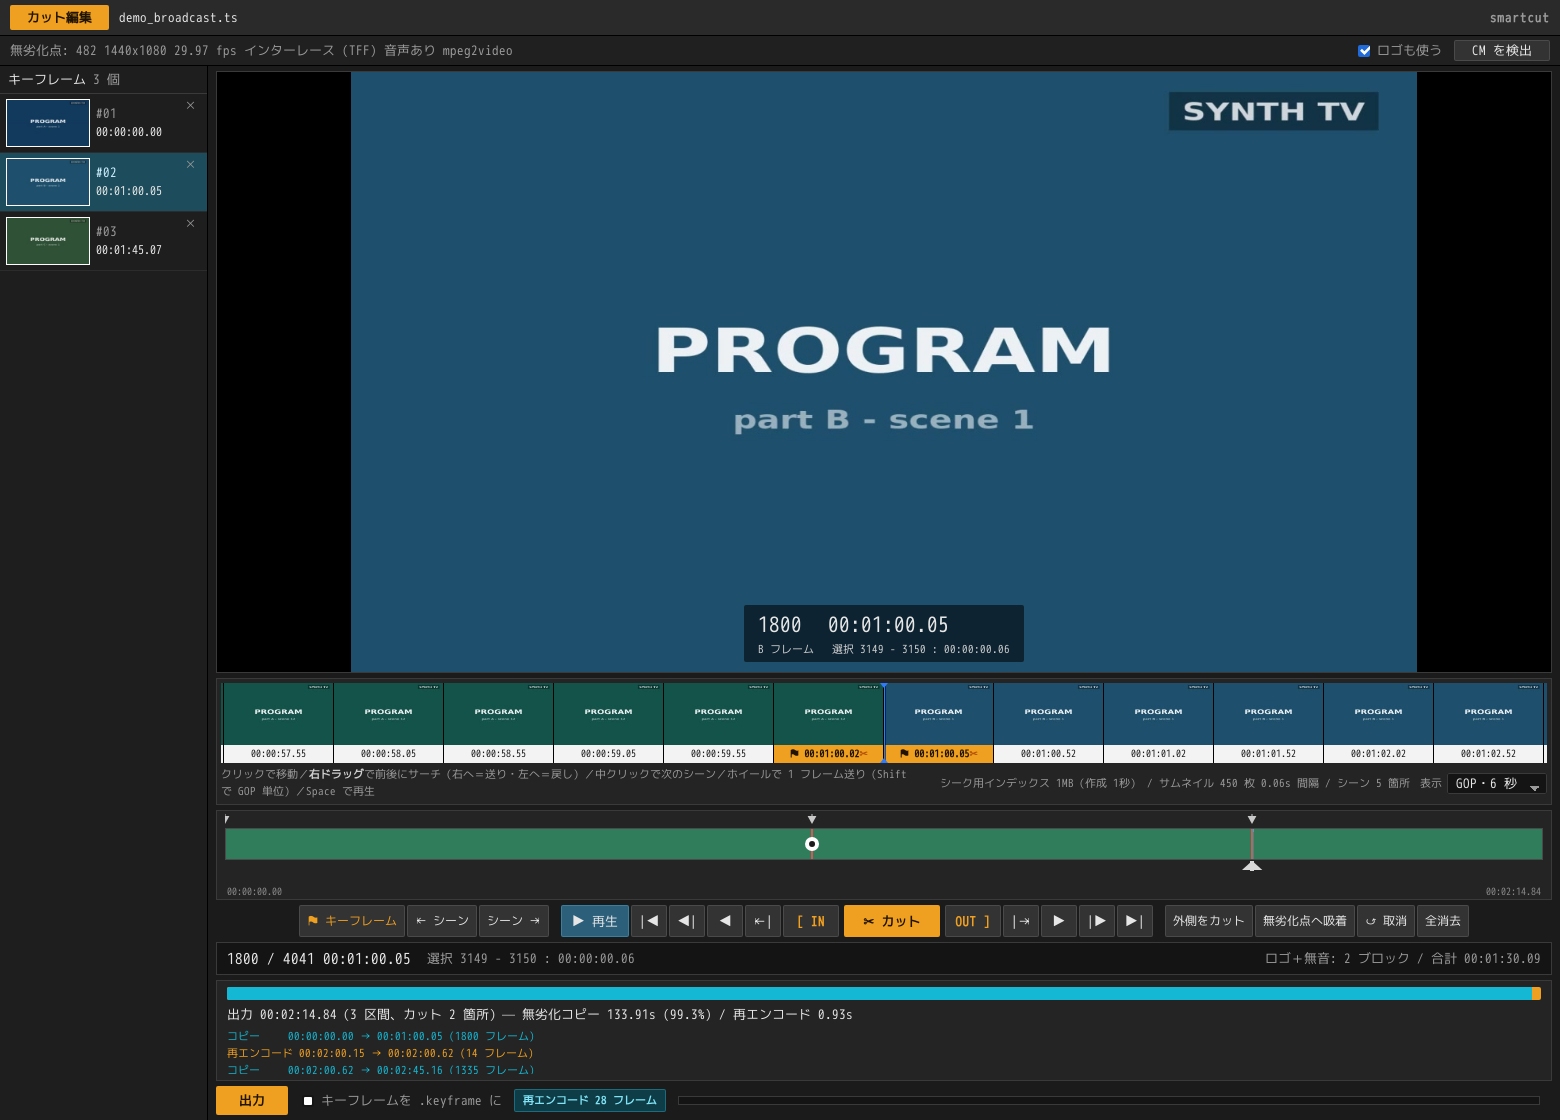
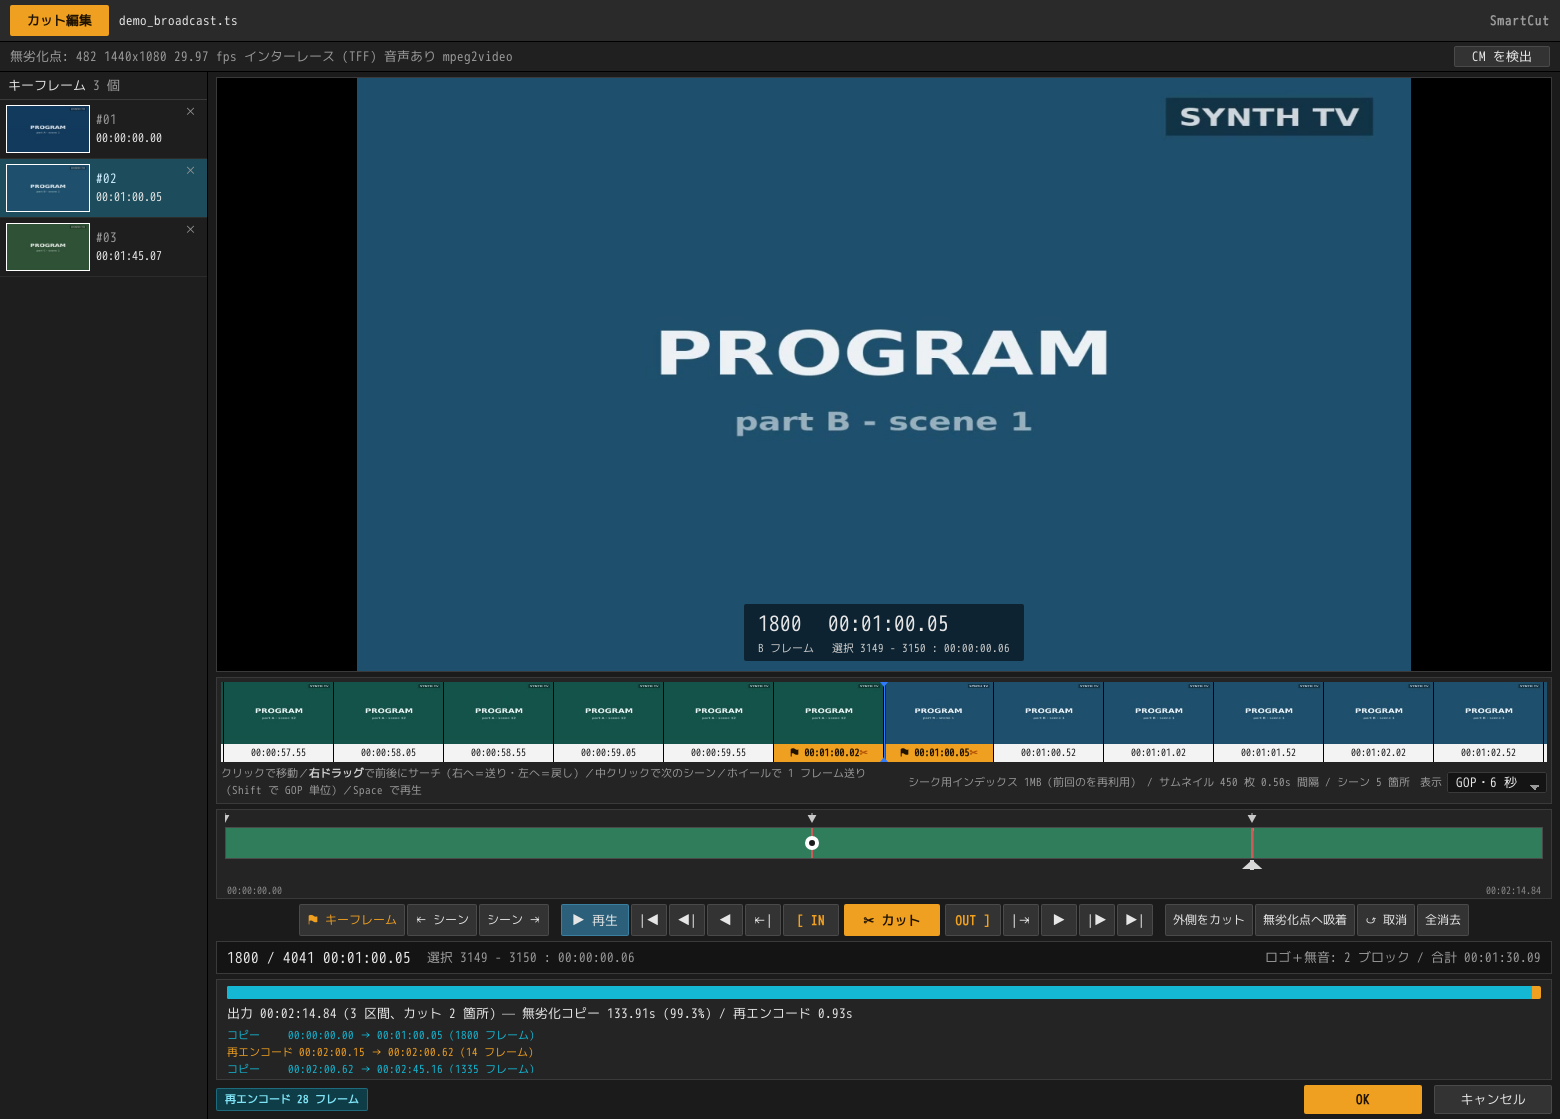
Retake the screenshots on the 0.2.0 windows, and follow the names 0.2.0 changed
Both images were of the single window that 0.2.0 broke in two: the editor shot
carried a tab bar, an 出力 button and a "キーフレームを .keyframe に" tick that
the cut editor no longer has, and the GIF was that same window being cut in.
They are retaken on the editor window as it is now -- the same recording, the
same edit, and the same numbers the README quotes around them: the demo clip
from tests/make_demo_media.sh, both commercial blocks taken out, 3 ranges,
133.91 s copied against 0.93 s re-encoded, 28 frames of 6743. The GIF starts
after the detection instead of waiting through it, which is what its caption
always said it showed.

`list.png` is new, and so is the section it sits in. The list is the half of
0.2.0 that no picture said anything about: four clips, the first of them
carrying its detection, its cuts and the length it will be written at.

The keyframe sidecar moved to the output settings screen when the editor lost
its export button, so the GUI page says where it is now and that it is a
setting of the whole list rather than of one clip.

The names 0.2.0 changed are followed through the build documentation.
`mainBinaryName` makes the GUI `smartcut` on Linux too, so `cargo build` writes
`target/release/smartcut` and the AppDir carries `usr/bin/smartcut`; the bundles
Tauri names after `productName` are `SmartCut_0.2.0_*`. Sizes are from this
build: 208.1 MB of tar.gz, 2.6 MB of deb, 66.0 MB of portable zip, 168.9 MB
[…]

diff --git a/docs/distribution.md b/docs/distribution.md
@@ -7,7 +7,7 @@
 ```bash
 cargo install tauri-cli --version ^2 --locked   # once
 cd gui/src-tauri && NO_STRIP=1 cargo tauri build --bundles appimage
-# -> target/release/bundle/appimage/smartcut_0.1.2_amd64.AppImage
+# -> target/release/bundle/appimage/SmartCut_0.2.0_amd64.AppImage
 ```
 
 **`NO_STRIP=1` is set.** Without it, linuxdeploy used to die with
@@ -45,8 +45,8 @@ in tends to make things *more* fragile across environments, so the exclusion
 stays. What is bundled can be checked by extracting:
 
 ```bash
-./smartcut_0.1.2_amd64.AppImage --appimage-extract >/dev/null
-ldd squashfs-root/usr/bin/gui | grep -E 'asound|jack|pulse'
+./SmartCut_0.2.0_amd64.AppImage --appimage-extract >/dev/null
+ldd squashfs-root/usr/bin/smartcut | grep -E 'asound|jack|pulse'
 # libasound.so.2 / libjack.so.0 -> /lib/x86_64-linux-gnu/...   (system)
 # libpulse.so.0                 -> squashfs-root/usr/bin/../lib/...  (bundled)
 ```
@@ -67,8 +67,8 @@ no ALSA-related errors and no panics.
 
 ```bash
 ./gui/build-linux.sh
-# -> gui/src-tauri/target/release/bundle/linux/smartcut-0.1.2-linux-x86_64.tar.gz
-# -> gui/src-tauri/target/release/bundle/linux/smartcut_0.1.2_amd64.deb
+# -> gui/src-tauri/target/release/bundle/linux/SmartCut-0.2.0-linux-x86_64.tar.gz
+# -> gui/src-tauri/target/release/bundle/linux/smartcut_0.2.0_amd64.deb
 ```
 
 Two ways of packing the same build. Both install **the GUI as `smartcut` and the
@@ -83,8 +83,8 @@ both out of `tauri.conf.json`.
 
 | Artifact | Size | FFmpeg | Requires |
 |---|---|---|---|
-| `smartcut-0.1.2-linux-x86_64.tar.gz` | 207.9 MB | Bundled | glibc 2.39 or newer. No FUSE needed |
-| `smartcut_0.1.2_amd64.deb` | 2.5 MB | Uses the system's | FFmpeg 7.1 (Debian 13 / Ubuntu 25.04 and later) |
+| `SmartCut-0.2.0-linux-x86_64.tar.gz` | 208.1 MB | Bundled | glibc 2.39 or newer. No FUSE needed |
+| `smartcut_0.2.0_amd64.deb` | 2.6 MB | Uses the system's | FFmpeg 7.1 (Debian 13 / Ubuntu 25.04 and later) |
 
 **The tar.gz contains the same AppDir as the AppImage, extracted.** The 745
 libraries linuxdeploy gathered by following `ldd` sit in `app/` as they are,
@@ -136,14 +136,14 @@ Cross-built from the Linux development VM to `x86_64-pc-windows-msvc`.
 
 ```bash
 ./gui/build-windows.sh
-# -> gui/src-tauri/target/x86_64-pc-windows-msvc/release/bundle/nsis/smartcut_0.1.2_x64-setup.exe
+# -> gui/src-tauri/target/x86_64-pc-windows-msvc/release/bundle/nsis/SmartCut_0.2.0_x64-setup.exe
 # -> gui/src-tauri/target/x86_64-pc-windows-msvc/release/bundle/portable/smartcut-portable-x64.zip
 ```
 
 | Artifact | Size | Contents |
 |---|---|---|
-| NSIS installer | 52.8 MB | 167 MB installed (9.6 MB exe plus 8 FFmpeg DLLs) |
-| Portable zip | 65.9 MB | The same set. Unzip and run `smartcut.exe` |
+| NSIS installer | 52.8 MB | 168.9 MB installed (10.6 MB exe plus 8 FFmpeg DLLs) |
+| Portable zip | 66.0 MB | The same set. Unzip and run `smartcut.exe` |
 
 **Exactly one piece of code had to be rewritten for the port: audio output.**
 Everything goes through libav, so there is no `Command::new` and no POSIX path.

diff --git a/docs/gui.md b/docs/gui.md
@@ -16,7 +16,7 @@ its own**.
 |---|---|---|
 | **入力設定 (Input)** | List window | The list of clips. Drop files on it or use ファイルを追加; each one is read in turn and its seek index left on disc |
 | **カット編集 (Cut editor)** | **Its own window** | Open one clip out of the list, cut it, and come back with **OK**. Nearly all of this document is about this one |
-| **出力設定 (Output settings)** | List window | Folder, filename prefix, container, what to do with the audio. **One answer for the whole list** |
+| **出力設定 (Output settings)** | List window | Folder, filename prefix, container, what to do with the audio, whether to write a `.keyframe` sidecar. **One answer for the whole list** |
 | **出力 (Output)** | List window | Write the list out, top to bottom |
 
 The list window's three are tabs, and only one is up at a time — they are
@@ -352,10 +352,12 @@ something earlier and shift the numbering, and the same mark stays selected. Onl
 when several go up at once, as with commercial detection, is the selection left
 alone, since there is no reason to prefer any one of them.
 
-**Keyframes can be written out alongside the output.** Tick "keyframes to
-.keyframe" next to the export button and a `.keyframe` file appears beside the
-video with the same name. The contents are **line numbers only, CRLF, no
-header** — the shape the tools that read this kind of file expect. **The numbers
+**Keyframes can be written out alongside the output.** Tick
+「キーフレーム情報を別ファイル (.keyframe) で出力する」 on the output settings
+screen and a `.keyframe` file appears beside the video with the same name. It is
+a setting of the output, so it holds for every clip in the list. The contents
+are **line numbers only, CRLF, no header** — the shape the tools that read this
+kind of file expect. **The numbers
 are in the exported timeline, not the original recording:**
 
 ```

diff --git a/README.ja.md b/README.ja.md
@@ -119,6 +119,16 @@ smartcut input.ts --analyze --scenes            # シーンの変わり目を出
 | `--no-open-gop` | オープン GOP をコピー開始点として使わない |
 | `-o OUTPUT` | 出力先。器は拡張子で決まる |
 
+## クリップ一覧
+
+![SmartCut のクリップ一覧](docs/images/list.png)
+
+一晩ぶんの録画を放り込む場所。**入れた順に裏で読み**、シーク用インデックスを
+残していく。`Ctrl+A` → `Ctrl+D` で選択したすべてに CM 検出が走り、結果は行に
+出る——尺・解像度・見つかった CM ブロック・入れたカット・書き出したあとの尺。
+カットはクリップ側に残るので、一覧を順に切ってから**まとめて書き出せる**。
+カット編集は一覧から別ウィンドウで開き、OK で戻る。
+
 ## 編集画面
 
 ![SmartCut のカット編集画面](docs/images/editor.png)

diff --git a/README.md b/README.md
@@ -128,6 +128,18 @@ smartcut input.ts --analyze --scenes            # scene changes
 | `--no-open-gop` | Never start a copy at an open GOP |
 | `-o OUTPUT` | Output path; the extension picks the container |
 
+## The clip list
+
+![The SmartCut clip list](docs/images/list.png)
+
+Where a night's worth of recordings goes. **Each one is read in the background
+as it arrives**, leaving a seek index behind; `Ctrl+A` then `Ctrl+D` runs
+commercial detection over everything selected. The row carries what is known
+about that recording — length, resolution, the commercial blocks found, the cuts
+made, the length it will be written at. Cuts live with the clip, so the list can
+be cut through one at a time and **written out in one go**. The cut editor opens
+on one clip in a window of its own and comes back with OK.
+
 ## The editor
 
 ![The SmartCut cut editor](docs/images/editor.png)

diff --git a/gui/README.md b/gui/README.md
@@ -12,6 +12,6 @@ how the release artifacts are produced is in
 [`docs/distribution.md`](../docs/distribution.md).
 
 ```bash
-cd src-tauri && cargo build --release   # -> target/release/gui
+cd src-tauri && cargo build --release   # -> target/release/smartcut
 ./build-windows.sh                      # cross-build for Windows
 ```

diff --git a/docs/development.md b/docs/development.md
@@ -43,7 +43,7 @@ cd rust && cargo build --release
 
 # GUI
 cd gui/src-tauri && cargo build --release
-# -> gui/src-tauri/target/release/gui
+# -> gui/src-tauri/target/release/smartcut
 ```
 
 ### Release artifacts

diff --git a/docs/development.ja.md b/docs/development.ja.md
@@ -43,7 +43,7 @@ cd rust && cargo build --release
 
 # GUI
 cd gui/src-tauri && cargo build --release
-# -> gui/src-tauri/target/release/gui
+# -> gui/src-tauri/target/release/smartcut
 ```
 
 ### 配布物
